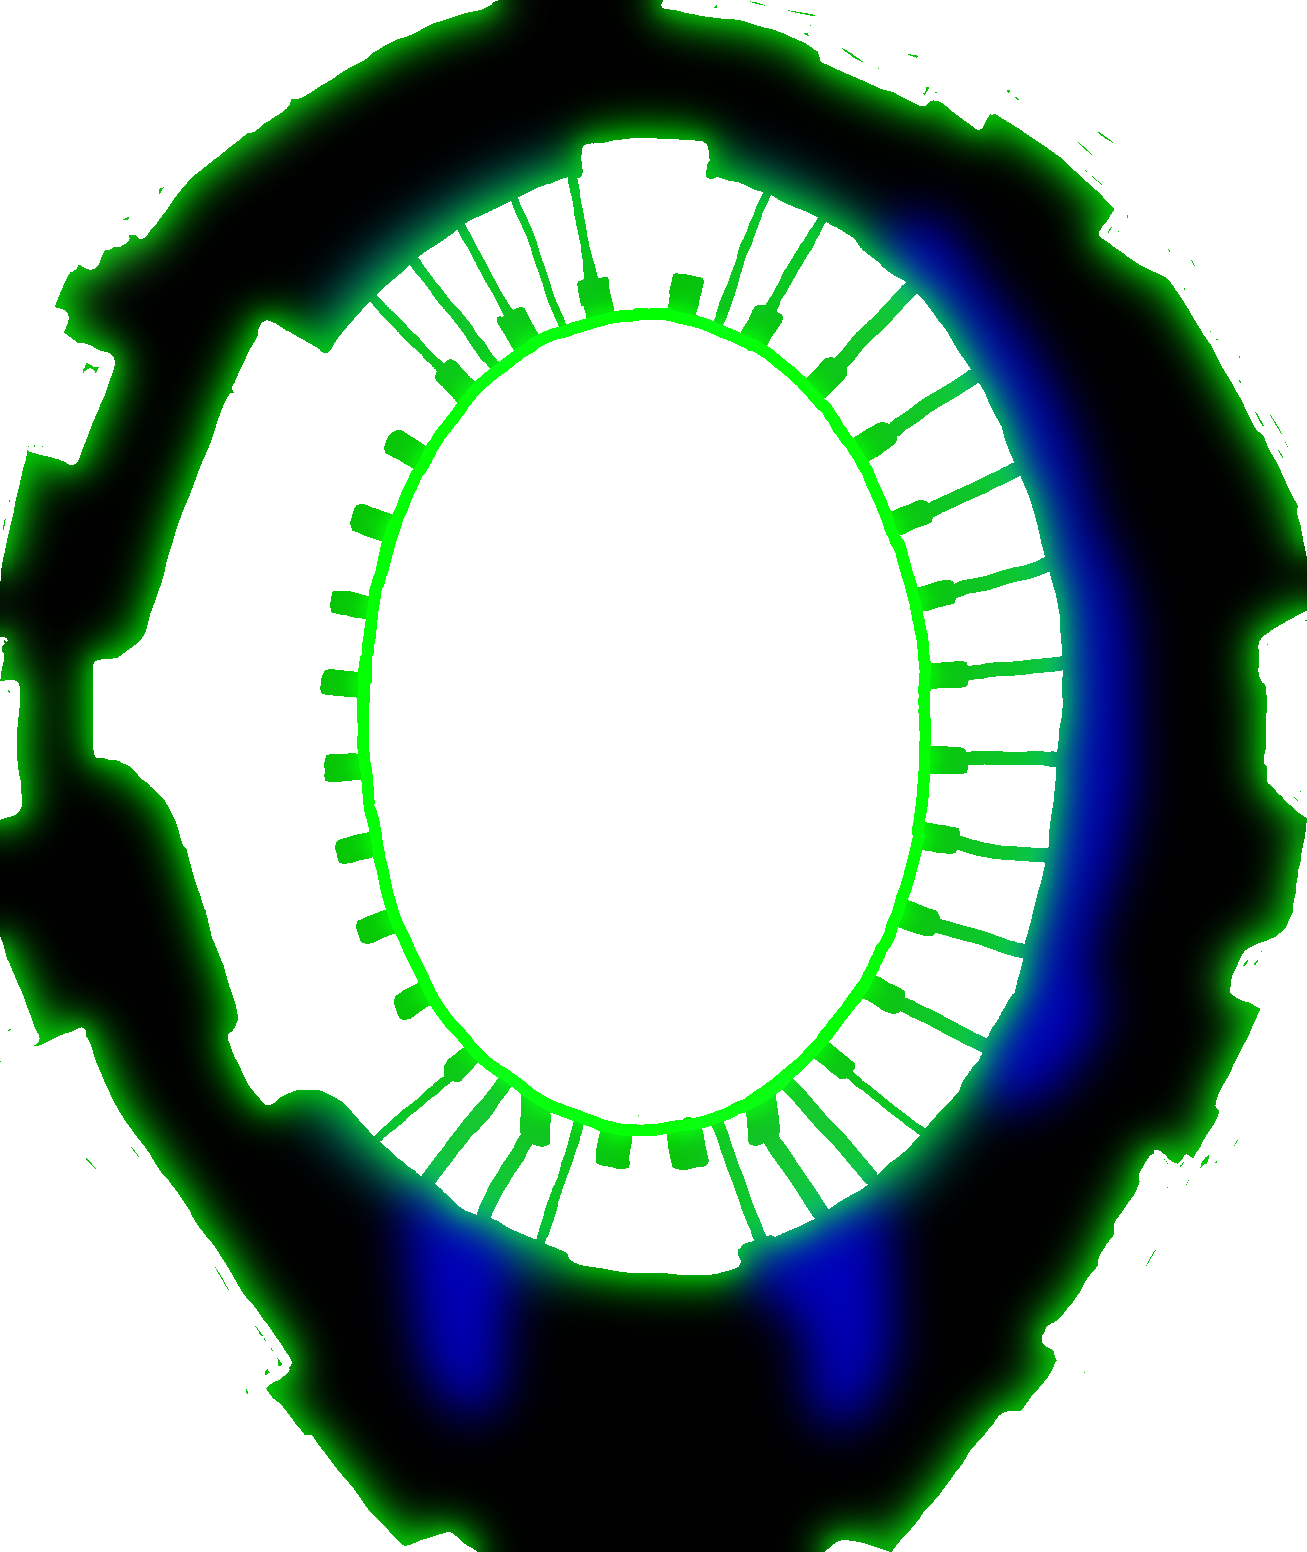
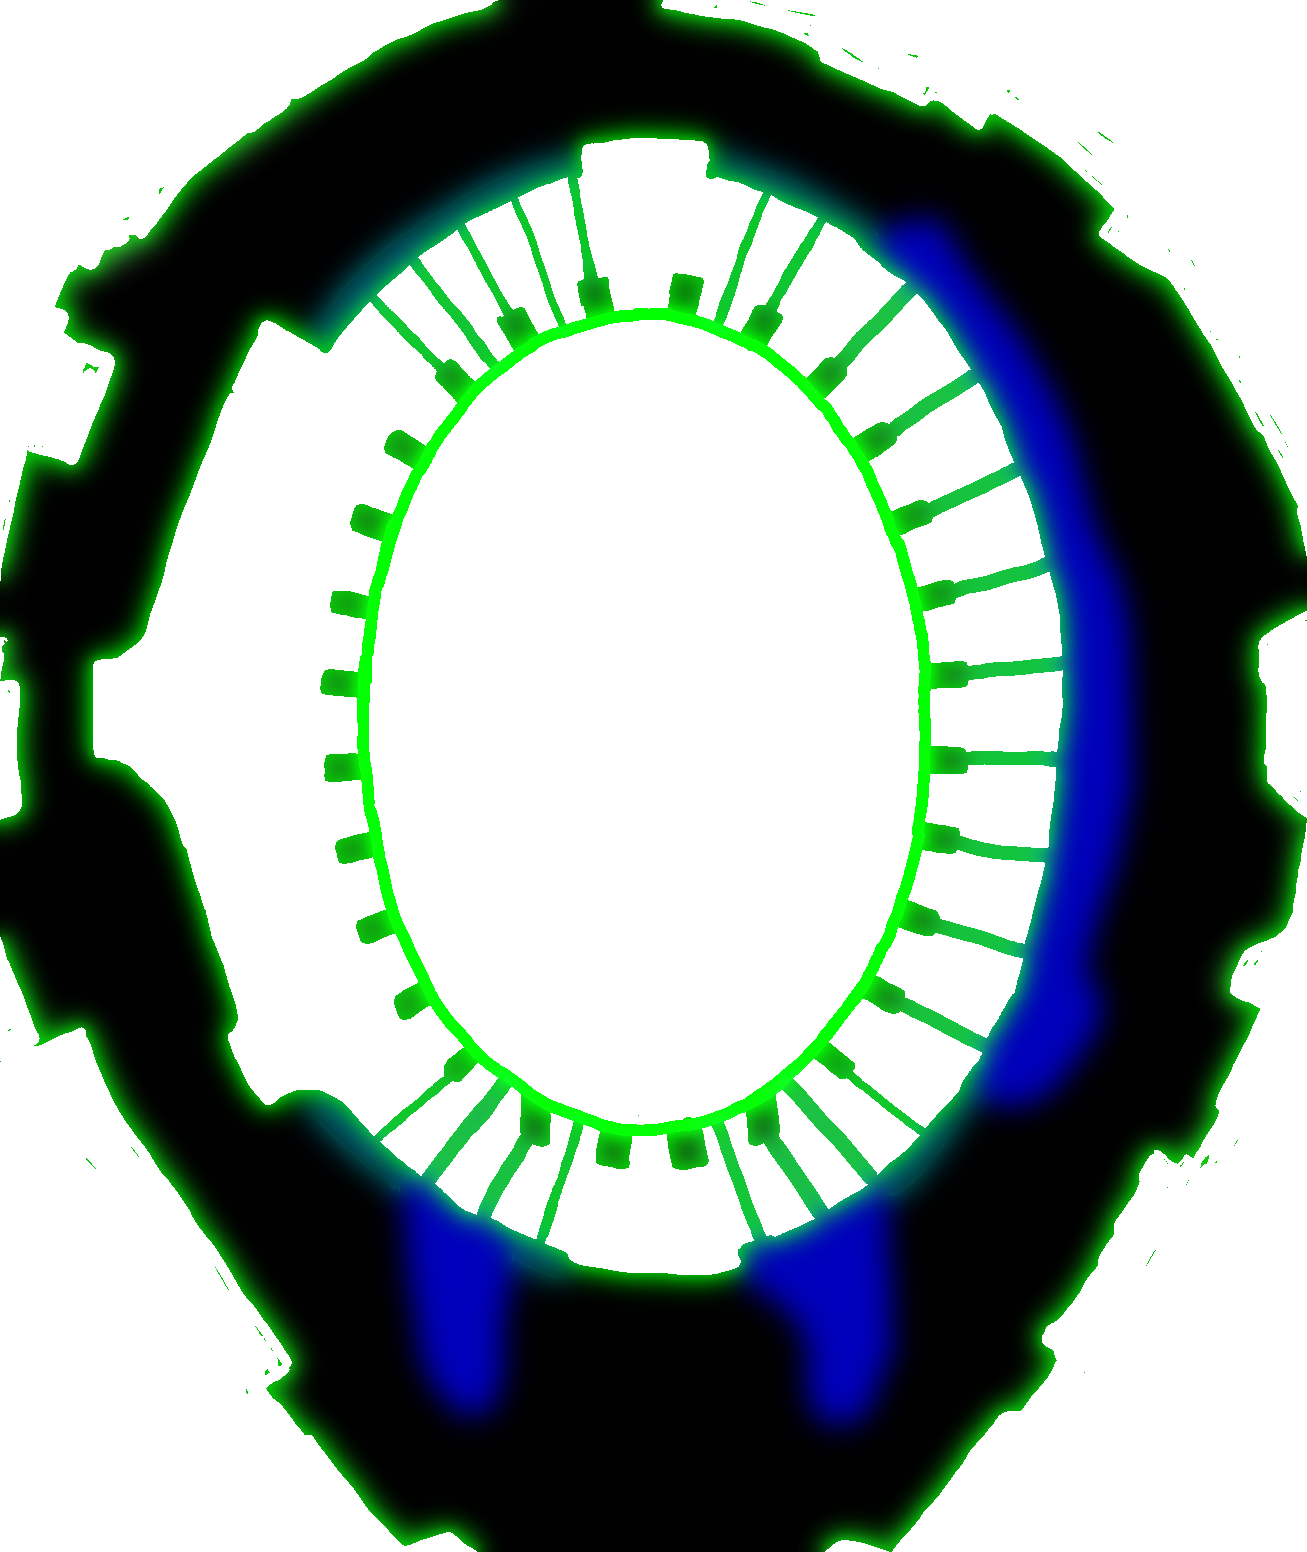
Add path planner cache to speed up simulation time

diff --git a/path_planner/path_planner.py b/path_planner/path_planner.py
@@ -1,10 +1,67 @@
 import yaml
-from path_planner.graph import Graph, Node
-from path_planner.grid import Grid
+
+if __name__ == '__main__':
+    from graph import Graph, Node
+    from grid import Grid
+else:
+    from path_planner.graph import Graph, Node
+    from path_planner.grid import Grid
 import numpy as np
+import scipy.ndimage
 import cv2
 from queue import PriorityQueue
 from abc import ABC, abstractmethod
+
+
+def distance(x, y):
+    return np.linalg.norm(np.array(x) - np.array(y))
+
+def color2cost(color, shift=6, scale=16):
+    c = 0 if color == 0 else np.log2(color)
+    sig = 1 / (1 + np.exp(-c + shift))
+    return scale * sig
+
+
+def collinearity(p):
+    m = len(p)
+    n = len(p[0])
+    if m < n:
+        return 0
+    matrix = np.concatenate(p).reshape(m, n)
+    while True:
+        i, j = matrix.shape
+        if i == j:
+            break
+        matrix = np.concatenate((matrix, np.ones((m, 1))), axis=1)
+    return abs(np.linalg.det(matrix))
+
+
+def collinearity_check(p1, p2, p3, epsilon=7):
+    m = np.vstack((p1, p2, p3))
+    if p1[2] <= p2[2] <= p3[2]:
+        m[:, 2] = 1
+    det = np.linalg.det(m)
+    return abs(det) < epsilon
+
+
+def draw_path(image, path, color=(0, 255, 255, 255), fade=False):
+    length = len(path)
+    if type(image) is str:
+        image = cv2.imread(image, cv2.IMREAD_UNCHANGED)
+    thickness = 5 if 5 < image.shape[0] // 128 else image.shape[0] // 128
+    for i in range(length - 1):
+        if fade:
+            color = (color[0], color[1], color[2], int((i / length) * 196) + 64)
+        image = cv2.line(image, (int(path[i][0]), int(path[i][1])), (int(path[i + 1][0]), int(path[i + 1][1])), color,
+                         thickness)
+    return image
+
+def check_cached_path(path):
+    try:
+        with open(path) as f:
+            return np.genfromtxt(path, delimiter=' ', dtype=int)
+    except (FileNotFoundError, IOError):
+        return None
 
 
 class PathFinder(ABC):
@@ -47,13 +104,10 @@ class Dijkstra(PathFinder):
         return G
 
     def point2node(self, pt, dist_threshold):
-        if type(pt) is list:
-            pt = np.array(pt)
-
         min_dist = dist_threshold
         min_node = None
         for v in self.graph.V:
-            dist = np.linalg.norm(pt - v.pos)
+            dist = distance(pt, v.pos)
             if dist <= min_dist:
                 min_node = v
 
@@ -93,36 +147,113 @@ class A_star(PathFinder):
         self.image = image_name
         self.DEBUG = DEBUG
         self.grid = Grid(image_name, DEBUG)
+        self.branch = {}
+        self.diffuse_params = 0
 
+    # Euclidean distance
     def h1(self, cur, target):
-        return np.linalg.norm(cur.pos[:2] - target.pos[:2])
+        return distance(cur.pos[:2], target.pos[:2])
 
-    def h2(selfself, cur, target):
-        return np.linalg.norm(cur.pos - target.pos)
+    # Chebyshev or "Chessboard" distance
+    def h2(self, cur, target):
+        dx = abs(cur.pos[0] - target.pos[0])
+        dy = abs(cur.pos[1] - target.pos[1])
+        return dx + dy + min(dx, dy)
 
-    def collinearity_check(self, p1, p2, p3, epsilon=5):
-        m = np.concatenate((p1, p2, p3)).reshape(-1, 3)
-        if p1[2] <= p2[2] <= p3[2]:
-            m[:, 2] = 1
-        det = np.linalg.det(m)
-        return abs(det) < epsilon
+    # Encourage straight lines + Euclidean distance
+    def h3(self, cur, target, past=10):
+        p = [cur.pos]
+        n = cur
+        for i in range(past):
+            if n not in self.branch:
+                break
+            _, b = self.branch[n]
+            p.append(b.pos)
+            n = b
 
-    def prune_path(self, path):
-        print("Pruning path")
-        print("Path is %d points long" % len(path))
+        det = collinearity(p)
+        return det + self.h1(cur, target)
+
+    def cost(self, p1, p2):
+        c = distance(p1, p2)
+        direction = (np.array(p2) - np.array(p1)) / c
+        pt = np.array(p1, dtype=float)
+        while not (np.round(pt) == np.array(p2)).all():
+            cell = self.grid.get_cell(round(pt[0]), round(pt[1]))
+            if cell.alpha < 200:
+                return np.inf
+            pt += direction
+            c += color2cost(cell.cost)
+        return c
+
+    def costs(self, P):
+        total_cost = 0
+        for i in range(len(P) - 1):
+            total_cost += self.cost(P[i], P[i+1])
+
+    def prune_path(self, path, path_cost):
+        length = len(path)
+        print("Path is %d points long" % length)
+        pruned_path = np.array(path).reshape((length, 3))
+
+        # From https://stackoverflow.com/questions/20618804/how-to-smooth-a-curve-in-the-right-way
+        box_pts = 12
+        box = np.ones(box_pts) / box_pts
+        for _ in range(3):
+            x = pruned_path[:, 0]
+            y = pruned_path[:, 1]
+            pruned_path[:, 0] = scipy.ndimage.convolve(x, box)
+            pruned_path[:, 1] = scipy.ndimage.convolve(y, box)
+
+        # prune collinear pts
         i = 0
-        pruned_path = path
-        while i < (len(pruned_path) - 2):
-            if self.collinearity_check(pruned_path[i],
-                                       pruned_path[i + 1],
-                                       pruned_path[i + 2]):
-                del pruned_path[i + 1]
+        while i < (pruned_path.shape[0] - 2):
+            p1 = pruned_path[i]
+            p2 = pruned_path[i+1]
+            p3 = pruned_path[i+2]
+            if collinearity_check(p1, p2, p3):
+                pruned_path = np.delete(pruned_path, i + 1, axis=0)
             else:
                 i += 1
         print("Pruned Path is %d points long" % len(pruned_path))
         return pruned_path
 
-    def find_path(self, start, target, alt=10, h=h1):
+    def diffuse(self, iter, k=(9, 9), transparent_cost=196):
+        self.diffuse_params = (iter, k[0], k[1], transparent_cost)
+        diffused = self.grid.grid.copy()
+        max_i = self.grid.h
+        max_j = self.grid.w
+
+        for i in range(max_i):
+            for j in range(max_j):
+                if diffused[i][j][3] == 0:
+                    diffused[i][j][1] = transparent_cost
+                    diffused[i][j][3] = 255
+
+        for _ in range(iter):
+            diffused = cv2.blur(diffused, k, cv2.BORDER_TRANSPARENT)
+            for i in range(max_i):
+                for j in range(max_j):
+                    if self.grid.grid[i][j][3] == 0:
+                        diffused[i][j][1] = transparent_cost
+                    elif diffused[i][j][1] < self.grid.grid[i][j][1]:
+                        diffused[i][j][1] = self.grid.grid[i][j][1]
+
+        for i in range(max_i):
+            for j in range(max_j):
+                if self.grid.grid[i][j][3] == 0:
+                    diffused[i][j] = np.array([0, 0, 0, 0])
+
+        return diffused
+
+    def find_path(self, start, target, alt=10, h=h3):
+        num = abs(hash((start, target, alt, self.diffuse_params)))
+        venue_name = self.image.split('/')[-1][:-4]
+        cache_path = "cache/" + venue_name + '/' + str(num) + '.csv'
+        r = check_cached_path(cache_path)
+        if r is not None:
+            return r
+
         start = self.grid.get_cell(start[0], start[1], alt)
         target = self.grid.get_cell(target[0], target[1], alt)
         queue = PriorityQueue()
@@ -130,31 +261,31 @@ class A_star(PathFinder):
         visited = set()
         visited.add(start)
 
-        branch = {}
+        self.branch = {}
         found = False
 
         while not queue.empty():
             _, cur = queue.get()
-            #print("Current cell = {}".format(cur.pos))
             if cur == start:
                 cur_cost = 0
             else:
-                cur_cost = branch[cur][0]
+                cur_cost = self.branch[cur][0]
 
             if cur == target:
-                print('Found a path.')
                 found = True
                 break
-            else:
-                for next in self.grid.get_neighbors(cur, alt):
-                    if next in visited:
-                        continue
 
-                    branch_cost = cur_cost + next.cost
-                    queue_cost = branch_cost + h(self, next, target)
-                    branch[next] = (branch_cost, cur)
-                    queue.put((queue_cost, next))
-                    visited.add(next)
+            for next in self.grid.get_neighbors(cur, alt):
+                if next in visited:
+                    continue
+
+                # cell_cost = 0 if next.cost < 32 else np.log2(next.cost)
+                cell_cost = color2cost(next.cost)
+                branch_cost = cur_cost + cell_cost
+                queue_cost = branch_cost + h(self, next, target)
+                self.branch[next] = (branch_cost, cur)
+                queue.put((queue_cost, next))
+                visited.add(next)
 
         if not found:
             print('**********************')
@@ -165,44 +296,50 @@ class A_star(PathFinder):
         # retrace steps
         path = []
         path.append(target.pos)
-        path_cost = branch[target][0]
+        path_cost = []
+        path_cost.append(self.branch[target][0])
         n = target
-        while branch[n][1] != start:
-            path.append(branch[n][1].pos)
-            n = branch[n][1]
-        path.append(branch[n][1].pos)
+        while self.branch[n][1] != start:
+            c, p = self.branch[n]
+            path.append(p.pos)
+            path_cost.append(c)
+            n = p
+        path.append(self.branch[n][1].pos)
+        path_cost.append(0)
 
-        pruned_path = self.prune_path(path[::-1])
+        pruned_path = self.prune_path(path[::-1], path_cost[::-1])
         if self.DEBUG:
             path_image = draw_path(self.image, pruned_path)
             path_image_name = self.image[:-4] + "Path.png"
             cv2.imwrite(path_image_name, path_image)
 
-        return pruned_path, path_cost
-
-
-def draw_path(image, path, color=(0, 255, 255, 255), fade=False):
-    length = len(path)
-    if type(image) is str:
-        image = cv2.imread(image, cv2.IMREAD_UNCHANGED)
-    thickness = 5 if 5 < image.shape[0]//128 else image.shape[0]//128
-    for i in range(length-1):
-        if fade:
-            color = (color[0], color[1], color[2], int((i / length)*196) + 64)
-        image = cv2.line(image, (int(path[i][0]), int(path[i][1])), (int(path[i+1][0]), int(path[i+1][1])), color, thickness)
-    return image
+        with open(cache_path, 'w') as out:
+            np.savetxt(out, pruned_path, delimiter=' ', fmt='%d')
+        return pruned_path
 
 
 if __name__ == '__main__':
-    map_image = "venues\Test\Test.png"
-    a = A_star(map_image, True)
-    path, cost = a.find_path((19,24), (211, 20))
-    print("Path cost: %d" % cost)
-    print(path)
+    venue = "Test"
 
-    #path_image = draw_path(map_image, path)
-    #cv2.imwrite("venues\Test\TestPath.png", path_image)
-    exit(0)
+    map_image_name = "venues/" + venue + "/" + venue + ".png"
+    a = A_star(map_image_name, True)
+    # a.grid.find_endpoints(127, 255); exit(0)
 
+    diffused = a.diffuse(12, (15, 15), 196)  # Test
+    # diffused = a.diffuse(12, (25, 25), 196)  # Rose Bowl
+    # diffused = a.diffuse(12, (15, 15), 196)  # Coachella
+    cv2.imwrite(map_image_name[:-4] + "Diffused.png", diffused)
+    a.grid.grid = diffused
 
-
+    start = (19, 24); target = (211, 20)  # Test
+    # start = (46, 950); target = (682, 310)  # RoseBowl
+    # start = (19, 24); target = (211, 20)  # Coachella
+    path = a.find_path(start, target)
+    path_image = draw_path(map_image_name, path)
+    diffused_path_image = draw_path(diffused, path)
+    orig_path_image = draw_path(map_image_name[:-4] + "Orig.png", path)
+    cv2.imwrite(map_image_name[:-4] + "DiffusedPath.png", diffused_path_image)
+    cv2.imwrite(map_image_name[:-4] + "OrigPath.png", orig_path_image)
+    # cv2.imshow("Path", diffused_path_image)
+    # cv2.waitKey(0)
+    # cv2.destroyAllWindows()
